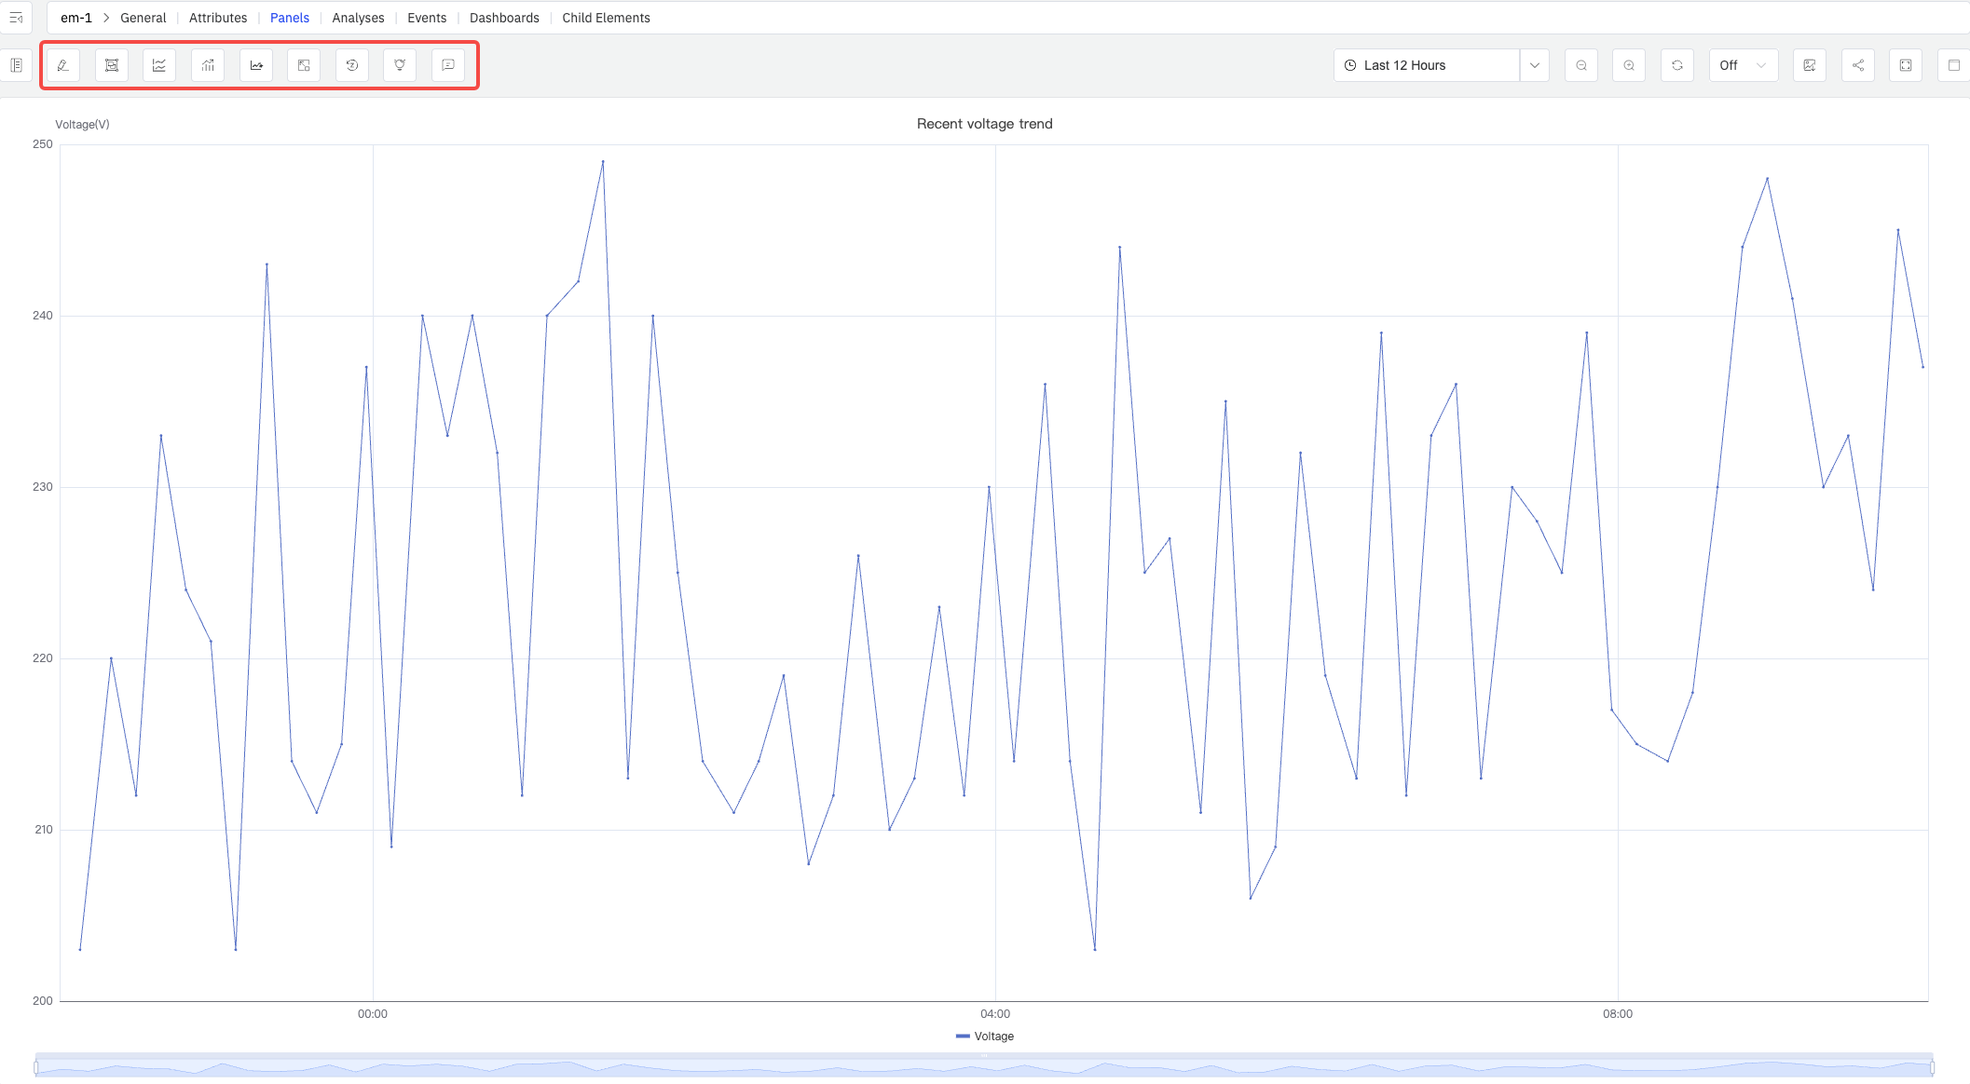
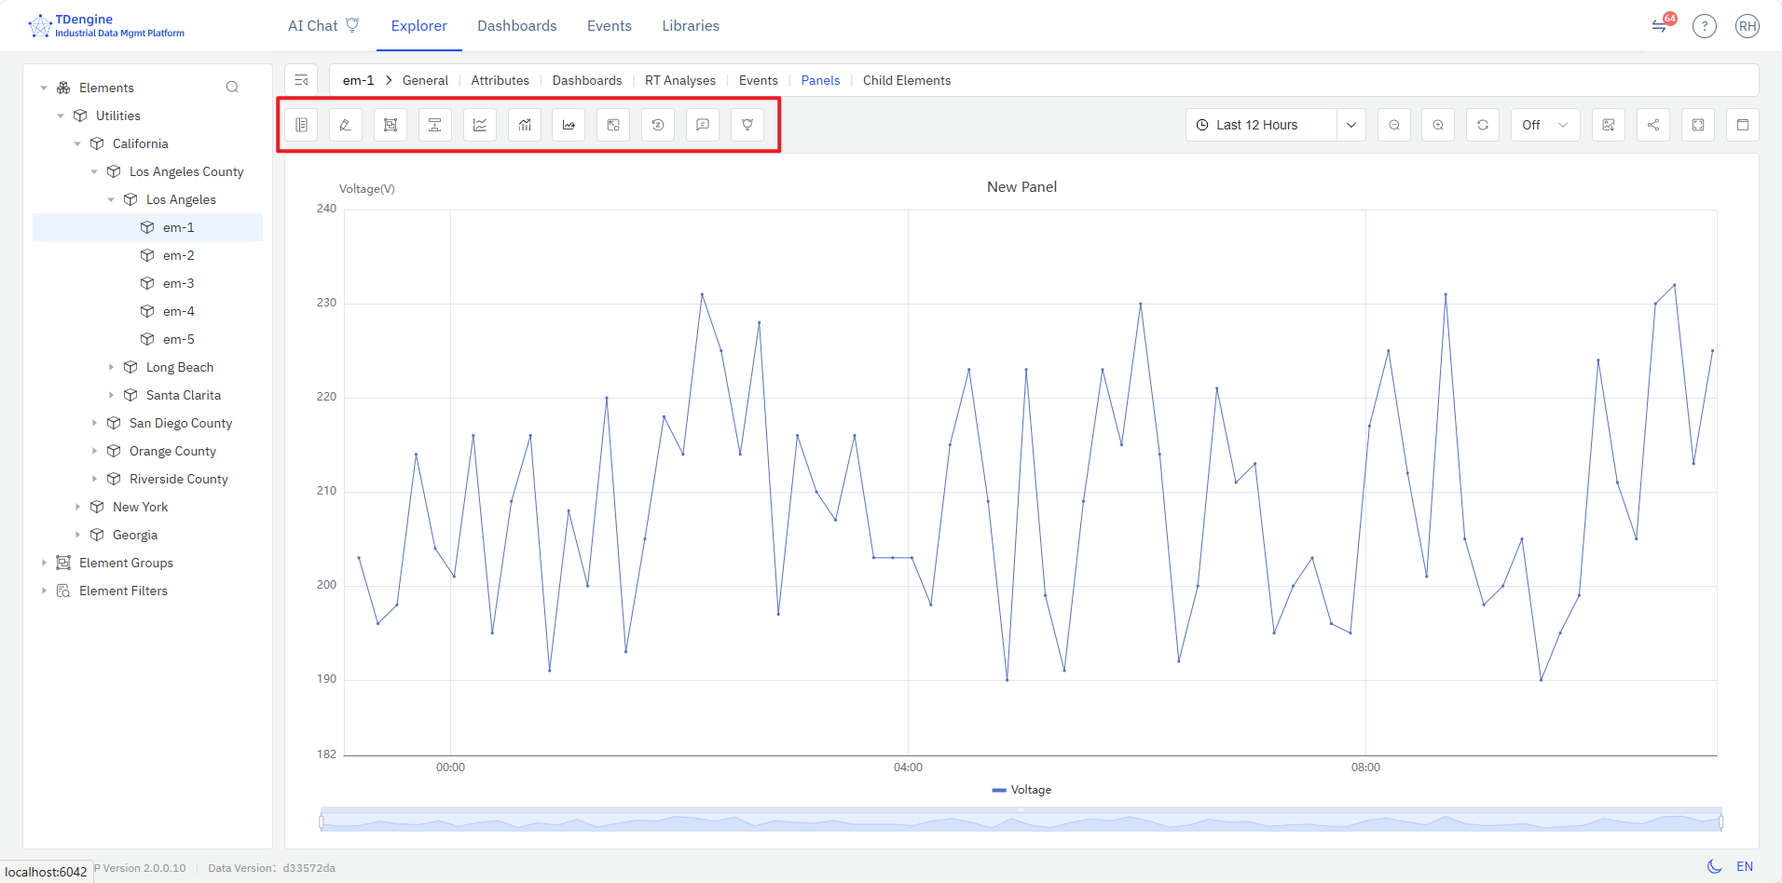
修改系统配置章节和趋势图章节

diff --git a/i18n/en/docusaurus-plugin-content-docs/current/14-administration/05-system-configuration.md b/i18n/en/docusaurus-plugin-content-docs/current/14-administration/05-system-configuration.md
@@ -4,11 +4,11 @@ sidebar_label: System Configuration
 ---
 # 14.5 System Configuration
 
-System Configuration is accessed from **Admin Console → System Configuration**. It has four sections: Basic Configuration, Notification Contact Point, System Message Template, and Email Server Configuration.
+System Configuration is accessed from **Admin Console → System Configuration**. It has eight sections: Basic Configuration, Notification Channel, System Message Template, Email Server Configuration, License Management, User Security Configuration, Resource Security Configuration, and System Statistics. For License Management, please refer to [Chapter 14.12](./30-activate.md).
 
 ## 14.5.1 Basic Configuration
 
-Basic Configuration contains system-wide settings:
+Basic Configuration contains system-level global settings:
 
 | Setting  | Description        |
 | --- | --- |
@@ -17,12 +17,16 @@ Basic Configuration contains system-wide settings:
 | **Upload Crash Reports**   | Whether to automatically upload crash reports                           |
 | **Auto Refresh Elements Explorer**  | Whether the asset explorer automatically refreshes when elements change |
 | **System Log**  | Whether to enable generation of tamper-proof system operation logs and support filtering, querying, and exporting |
+| **Quality Analysis Menu** | Whether to enable a standalone Quality Analysis menu |
+| **Public Access URL** | The public access URL for the current system |
+| **Week Start** | Whether the first day of the week is Sunday or Monday |
+| **System Color** | Configuration of the default system color |
 
 Click the edit (pencil) icon to modify these settings.
 
-## 14.5.2 Notification Contact Point
+## 14.5.2 Notification Channel
 
-A **Notification Contact Point** defines a destination that IDMP sends notifications to. Multiple contact points can be configured. The first user to activate the system has their email address automatically added as a contact point.
+A **Notification Channel** defines a destination that IDMP sends notifications to. Multiple contact points can be configured. The first user to activate the system has their email address automatically added as a contact point.
 
 To create a contact point, click **+** and fill in:
 
@@ -41,11 +45,11 @@ System Message Templates define the content of system-generated messages for eve
 
 IDMP ships with built-in templates for common notification scenarios. Click a template name to view or edit its content. Templates support variable substitution to include dynamic values such as usernames, URLs, and event details.
 
-![notification template](./images/notify_template.png)
+![System Message Template](./images/notify_template.png)
 
 ## 14.5.4 Email Server Configuration
 
-Email Server Configuration defines the SMTP server that IDMP uses to send outbound email. Click the edit (pencil) icon to update the settings.
+Email Server Configuration defines the SMTP server that IDMP uses to send outbound email. Click the edit (pencil) icon to modify and update the settings.
 
 | Field                           | Description                                                                |
 | ------------------------------- | -------------------------------------------------------------------------- |
@@ -57,7 +61,7 @@ Email Server Configuration defines the SMTP server that IDMP uses to send outbou
 | **Enable TLS**            | Whether to use TLS encryption for the SMTP connection                      |
 | **Enable Authentication** | Whether SMTP authentication is required                                    |
 
-IDMP sends email for several purposes: system activation (verification code), user invitations, password resets, and event alert notifications. By default, IDMP uses a TDengine-provided mail service.
+IDMP sends email for several purposes: system activation (verification code), user invitations, password resets, and event alert notifications. By default, IDMP uses a TDengine-provided mail service, and users can also modify the configuration to use a custom email service.
 
 ### 14.5.4.1 Using MailHog for Air-Gapped Environments
 
@@ -69,7 +73,7 @@ docker run -d -p 1025:1025 -p 8025:8025 --name mailhog mailhog/mailhog:v1.0.1
 
 After starting MailHog, configure Email Configuration with:
 
-| Field                              | Value                                                                   |
+| Field                              | Value Description                                                       |
 | ---------------------------------- | ----------------------------------------------------------------------- |
 | Host                               | Host machine IP (or service name if in the same Docker Compose network) |
 | Port                               | `1025`                                                                |
@@ -78,3 +82,57 @@ After starting MailHog, configure Email Configuration with:
 | Sender                             | Any valid email format (e.g.,`support@example.com`)                   |
 
 Access the MailHog web interface at `http://<server-ip>:8025` to view captured emails.
+
+## 14.5.5 User Security Configuration
+
+Click **System Configuration** → **User Security Configuration** to enter the user security configuration page. User security policies are disabled by default. Click **Enable Security Policies** to activate system-level user security policy management.
+
+![Enable User Security Configuration](./images/user-security-01.png)
+
+After enabling user security policy management, you can configure account protection, session security, and other settings. Changes take effect immediately upon saving.
+
+| Security Setting | Description |
+| --- | --- |
+| **Login Failure Protection** | Set the maximum number of failed login attempts and the lockout duration after exceeding the limit |
+| **Password Expiration** | Set the validity period (in days) for account passwords, and the number of days in advance to warn users before expiration. When enabled, users must change their passwords within the specified time range |
+| **Password History Restriction** | Set the number of previous passwords that cannot be reused — the current password must differ from the specified number of previous passwords |
+| **Session Security** | When enabled, a new login for the same account automatically invalidates all other online sessions, ensuring only one active session per account |
+
+![User Security Configuration](./images/user-security-02.png)
+
+## 14.5.6 Resource Security Configuration
+
+Click **System Configuration** → **Resource Security Configuration** to enter the resource security configuration page. Resource security configuration covers all resource types in the current system, specifically:
+
+| Resource Type | Configurable Security Actions |
+| --- | --- |
+| **Elements** | Add, Edit, Delete, and Document Modification |
+| **Dashboards** | Edit, Add |
+| **Real-Time Analysis** | Edit, Add |
+| **Events** | Edit, Delete |
+| **Element Templates** | Add, Edit, Delete |
+| **Event Templates** | Add, Edit, Delete |
+| **Dashboard Templates** | Add, Edit, Delete |
+| **Panel Templates** | Add, Edit, Delete |
+| **Notification Rule Templates** | Add, Edit, Delete |
+
+You can then configure global security management policies for all key resources in the system.
+
+![View Resource Security Configuration](./images/resource-security-01.png)
+
+On the resource security configuration page, click the **Edit** button in the upper-right corner to enter editing mode. You can then set differentiated security policies for each resource type, including whether a change reason is required, and whether re-entering the password or performing multi-factor authentication (MFA) is required when executing change operations.
+
+![Edit Resource Security Configuration](./images/resource-security-02.png)
+
+## 14.5.7 System Statistics
+
+Click **System Configuration** → **System Statistics** to enter the system statistics page. This page provides a one-stop overview of key system statistics, including:
+
+| Category | Statistics |
+| --- | --- |
+| **Assets** | Number of Elements, Attributes, Measurement Points, Events, Real-Time Analyses, Instance Scenarios, Documents, Enumeration Sets, UOMs, and Composite Metrics |
+| **Templates** | Number of Element Templates, Attribute Templates, Real-Time Analysis Templates, Panel Templates, Dashboard Templates, Notification Rule Templates, and Action Templates |
+| **Visualization** | Number of Panels, Dashboards, and Configurations |
+| **Models** | Number of Training Library Models, Management Library Models, and Deployed Models |
+
+![System Statistics](./images/system-statistics.png)

diff --git a/docs/14-administration/05-system-configuration.md b/docs/14-administration/05-system-configuration.md
@@ -4,11 +4,11 @@ sidebar_label: 系统配置
 ---
 # 14.5 系统配置
 
-系统配置通过**管理控制台 → 系统配置**访问，包含四个部分：基本配置、通知联系人、通知模板和邮件配置。
+系统配置通过**管理控制台 → 系统配置**访问，包含 8 个部分：基本配置、通知途径、系统消息模板、邮件服务器配置、许可管理、用户安全配置、资源安全配置与系统统计，其中许可管理部分请单独参考 [第 14.12 章节](./30-activate.md)。
 
 ## 14.5.1 基本配置
 
-基本配置包含系统级设置：
+基本配置包含系统级的全局基础设置：
 
 | 设置项                       | 说明                                                               |
 | ---------------------------- | ------------------------------------------------------------------ |
@@ -17,12 +17,16 @@ sidebar_label: 系统配置
 | **上传崩溃报告**       | 是否自动上传崩溃报告                                               |
 | **自动刷新资源浏览器** | 元素变化时，资产浏览器是否自动刷新                                 |
 | **系统日志**           | 是否开启生成不可修改的系统操作日志，以及相关日志的筛选、查询与导出 |
+| **质量分析菜单**           | 是否开启独立的质量分析菜单 |
+| **公网访问地址**           | 当前系统的公网访问地址 |
+| **周开始**           | 当前系统每周的第一天是周日或周一 |
+| **系统颜色**           | 系统默认颜色的配置 |
 
-点击编辑（铅笔）图标可修改这些设置。
+点击编辑（铅笔）图标即可修改这些设置。
 
-## 14.5.2 通知联系人
+## 14.5.2 通知途径
 
-**通知联系人**定义 IDMP 发送通知的目标地址，可配置多个联系人。首位激活系统的用户的电子邮件地址将自动添加为联系人。
+**通知途径**定义 IDMP 发送通知的目标地址，可配置多个联系人。首位激活系统的用户的电子邮件地址将自动添加为联系人。
 
 创建联系人时，点击 **+** 并填写以下信息：
 
@@ -41,11 +45,11 @@ sidebar_label: 系统配置
 
 IDMP 内置了常见通知场景的模板。点击模板名称可查看或编辑内容。模板支持变量替换，可包含用户名、URL 和事件详情等动态值。
 
-![通知模板](./images/notify_template.png)
+![系统消息模板](./images/notify_template.png)
 
 ## 14.5.4 邮件服务器配置
 
-邮件服务器配置定义 IDMP 用于发送外发邮件的 SMTP 服务器。点击编辑（铅笔）图标更新设置。
+邮件服务器配置定义 IDMP 用于发送外发邮件的 SMTP 服务器。点击编辑（铅笔）图标即可修改更新设置。
 
 | 字段               | 说明                                                                  |
 | ------------------ | --------------------------------------------------------------------- |
@@ -57,7 +61,7 @@ IDMP 内置了常见通知场景的模板。点击模板名称可查看或编辑
 | **启用 TLS** | 是否对 SMTP 连接使用 TLS 加密                                         |
 | **启用认证** | 是否需要 SMTP 认证                                                    |
 
-IDMP 在多种场景下发送邮件：系统激活（验证码）、用户邀请、密码重置和事件告警通知。默认情况下，IDMP 使用涛思数据提供的邮件服务。
+IDMP 会在多种场景下发送邮件：系统激活（验证码）、用户邀请、密码重置和事件告警通知。默认情况下，IDMP 使用涛思数据提供的邮件服务，用户也可以修改配置以使用个性化的邮箱服务。
 
 ### 14.5.4.1 离网环境使用 MailHog
 
@@ -69,7 +73,7 @@ docker run -d -p 1025:1025 -p 8025:8025 --name mailhog mailhog/mailhog:v1.0.1
 
 启动 MailHog 后，按以下信息配置邮件配置：
 
-| 字段                | 值                                                |
+| 字段                | 值说明      |
 | ------------------- | ------------------------------------------------- |
 | 主机                | 宿主机 IP（或同一 Docker Compose 网络中的服务名） |
 | 端口                | `1025`                                          |
@@ -78,3 +82,57 @@ docker run -d -p 1025:1025 -p 8025:8025 --name mailhog mailhog/mailhog:v1.0.1
 | 发件人              | 任意有效邮件格式（如 `support@example.com`）    |
 
 在 `http://<服务器IP>:8025` 访问 MailHog Web 界面以查看捕获的邮件。
+
+## 14.5.5 用户安全配置
+
+点击**系统配置**-**用户安全配置**，可以进入用户安全配置页面。用户安全策略默认为关闭状态，可以点击启动安全策略，即可启用系统级的用户安全策略管理。
+
+![启动用户安全配置](./images/user-security-01.png)
+
+启动用户安全策略管理后，可以对账户保护、会话安全等进行配置，保存后即刻生效。
+
+| 安全配置项               | 配置说明           |
+| ------------------- | ------------------------------------------------- |
+| 登录失败保护                | 设置最大失败次数，以及失败后的登录锁定时长 |
+| 密码有效期                | 设置账户密码的有效天数，以及过期提醒天数，当开启此项配置后，用户必须在指定时间范围内修改账户的密码 |
+| 历史密码限制       | 设定历史密码限制次数，即当前设置密码必须和之前几次的密码不一样     |
+| 会话安全 | 当开启后，同一账号的新登录会自动让其他在线会话失效，即统一账户只允许一个有效在线会话   |
+
+![用户安全配置](./images/user-security-02.png)
+
+## 14.5.6 资源安全配置
+
+点击**系统配置**-**资源安全配置**，可以进入资源安全配置页面。资源安全配置覆盖当前系统内的所有资源类型，具体包括：
+
+| 资源类型               | 安全配置项           |
+| ------------------- | ------------------------------------------------- |
+| 元素                | 增加、编辑、删除，以及文档修改 |
+| 仪表板              | 编辑、增加 |
+| 实时分析       | 编辑、增加    |
+| 事件       | 编辑、删除   |
+| 元素模板       | 增加、编辑、删除   |
+| 事件模板       | 增加、编辑、删除   |
+| 仪表板模板       | 增加、编辑、删除   |
+| 面板模板       | 增加、编辑、删除   |
+| 通知规则模板       | 增加、编辑、删除   |
+
+此时用户可以对系统内的所有关键资源，设置全局性的安全管理策略。
+
+![资源安全配置查看](./images/resource-security-01.png)
+
+在资源安全配置页面，点击右上角的编辑按钮，即可进入编辑状态，此时用户可以针对每一项资源类型，设置差异化的安全策略，包括是否需要输入变更原因，以及当执行变更操作时，是否需要再次输入密码，或者执行更加安全等级的多因素身份认证，即 MFA。
+
+![资源安全配置修改](./images/resource-security-02.png)
+
+## 14.5.7 系统统计
+
+点击**系统配置**-**系统统计**，可以进入系统统计页面。该页面会一站式展示当前系统的各种关键统计信息，包括：
+
+| 类型               | 统计项           |
+| ------------------- | ------------------------------------------------- |
+| 资产                | 元素数、属性数、测点数、事件数、实时分析数、实例场景数、文档数、枚举集数、 UOM数、复合指标数|
+| 模板              | 元素模板数、属性模板数、实时分析模板数、面板模板数、仪表板模板数、通知规则模板数、动作模板数 |
+| 可视化       | 面板数、仪表板数、组态数    |
+| 模型       | 训练库模型数、管理库模型数、已部署模型数   |
+
+![系统统计](./images/system-statistics.png)

diff --git a/docs/04-visualization/02-chart-types/01-trend-chart.md b/docs/04-visualization/02-chart-types/01-trend-chart.md
@@ -36,13 +36,16 @@ sidebar_label: 趋势图
 
 | 控件               | 说明                                                                                                     |
 | ------------------ | -------------------------------------------------------------------------------------------------------- |
+| **编辑**         |  进入当前面板的编辑页面  |
+| **添加到分组**         |  将当前面板添加到自定义分组，以快速访问  |
+| **降采样**         |  开启或关闭降采样  |
 | **多泳道**         | 将每个指标显示在各自独立的水平带中，而非共享同一 Y 轴                                                    |
 | **窗口分析**       | 对当前时序数据执行窗口分析，支持滑动窗口、状态窗口、事件窗口、异常检测、会话窗口和计数窗口等多种分析类型 |
 | **预测**           | 对当前图表上的指标运行 AI 预测，在时间范围末尾延伸显示预测走势                                           |
-| **填补**           | 进入填补模式，在图表上拖拽选取数据缺口区域，系统将使用 AI 趋势估算自动填充                               |
-| **重置填补**       | 移除当前图表上已应用的所有填补结果                                                                       |
-| **解读面板**       | 对当前图表数据运行 AI 解读，输出文字分析结论                                                             |
-| **打开为分析工作台** | 在新窗口中以分析工作台模式打开当前趋势图                                                                   |
+| **缺失值填补**           | 进入填补模式，在图表上拖拽选取数据缺口区域，系统将使用 AI 趋势估算自动填充                               |
+| **重置填补**       | 移除当前图表上已应用的所有填补结果  |
+| **显示注解** | 在页面右侧展示当前图标的注解信息图      |
+| **AI 解读**       | 对当前图表运行 AI 面板解读或通用分析，输出文字分析报告，也可以添加并执行个性化的 AI Function             |
 
 ### 图形配置
 
@@ -187,9 +190,9 @@ sidebar_label: 趋势图
 | **Special** | 匹配 null、NaN、布尔值、空字符串等 |
 | **Others**  | 匹配所有未被前面规则覆盖的值       |
 
-### 颜色阈值
+### 阈值
 
-颜色阈值根据数据值动态改变系列的颜色，用于高亮显示超出正常范围的数据段：
+阈值设置根据数据值动态改变系列的颜色，用于高亮显示超出正常范围的数据段：
 
 ![颜色阈值配置](../../images/04/trend-thresholds.png)
 

diff --git a/i18n/en/docusaurus-plugin-content-docs/current/04-visualization/02-chart-types/01-trend-chart.md b/i18n/en/docusaurus-plugin-content-docs/current/04-visualization/02-chart-types/01-trend-chart.md
@@ -36,13 +36,16 @@ The Trend Chart provides a set of chart-specific toolbar buttons in view mode (h
 
 | Control | Description |
 |---|---|
+| **Edit** | Enter the edit page for the current panel |
+| **Add to Group** | Add the current panel to a custom group for quick access |
+| **Downsampling** | Enable or disable downsampling |
 | **Multi-Swimlane** | Display each metric in its own horizontal lane instead of sharing a single Y axis |
 | **Window Analysis** | Run a window analysis on the current time-series data. Supported types include sliding, state, event, anomaly detection, session, and count windows |
-| **Forecast** | Run AI forecasting for the metrics and extend the chart with predicted values beyond the time range |
-| **Imputation** | Enter imputation mode — drag across a data gap and the system fills it using AI-based trend estimation |
+| **Forecast** | Run AI forecasting for the metrics on the chart and extend it with predicted values beyond the time range |
+| **Imputation** | Enter imputation mode — drag across a data gap on the chart and the system fills it using AI-based trend estimation |
 | **Reset Imputation** | Remove all imputation results currently applied to the chart |
-| **Panel Insights** | Run AI interpretation on the current chart data and output a text summary |
-| **Open as Analysis Workbench** | Open the current trend chart in a new window as an analysis workbench |
+| **Show Annotations** | Display annotation information for the current chart on the right side of the page |
+| **AI Interpretation** | Run AI panel interpretation or general analysis on the current chart, output a text analysis report, and optionally add and execute custom AI Functions |
 
 ### Graph Settings
 
@@ -187,9 +190,9 @@ Click **+ Edit Value Mappings** to open the edit dialog, which supports the foll
 | **Special** | Match null, NaN, booleans, empty strings, etc. |
 | **Others** | Match all values not covered by preceding rules |
 
-### Color Thresholds
+### Thresholds
 
-Color thresholds dynamically change series color based on value, highlighting data that exceeds normal operating ranges:
+Thresholds dynamically change series color based on data values, highlighting segments that exceed normal operating ranges:
 
 ![Thresholds configuration](../../images/04/trend-thresholds.png)
 
